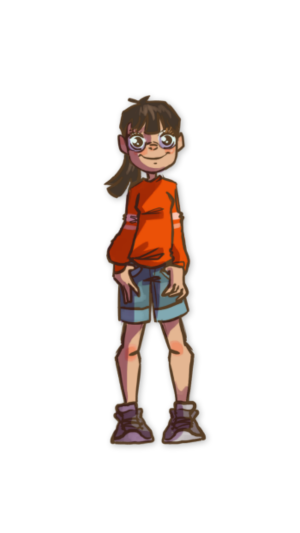
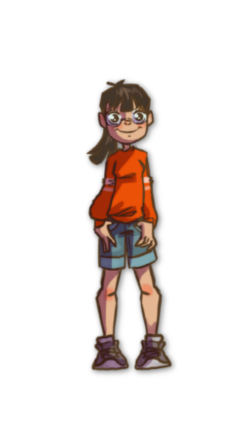
Made the girl jump

diff --git a/portfolio/src/components/jumpGirl/JumpGirl.js b/portfolio/src/components/jumpGirl/JumpGirl.js
@@ -1,0 +1,41 @@
+import React, { Component } from "react";
+import jump from "../../assets/images/fall.png";
+import { TweenMax, TimelineMax } from "gsap/TweenMax";
+// import TimelineMax from "gsap";
+import ScrollMagic from "ScrollMagic";
+import "scrollmagic/scrollmagic/uncompressed/plugins/animation.gsap";
+import "scrollmagic/scrollmagic/uncompressed/plugins/animation.velocity";
+import "scrollmagic/scrollmagic/uncompressed/plugins/debug.addIndicators";
+
+import "./JumpGirl.css";
+class JumpGirl extends Component {
+  state = {
+    controller: new ScrollMagic.Controller()
+  };
+  componentDidMount() {
+    new ScrollMagic.Scene({
+      triggerElement: "#trigger1",
+      triggerHook: 0.5, // show, when scrolled 10% into view
+      duration: "500" // hide 10% before exiting view (80% + 10% from bottom)
+    })
+      .setClassToggle("#reveal1", "visible") // add class to reveal
+      .setPin("#reveal1")
+      .addIndicators() // add indicators (requires plugin)
+      .addTo(this.state.controller);
+  }
+  render() {
+    return (
+      <div>
+        <div style={{ height: "500px", background: "orange" }}>
+          <div class="spacer s2" />
+          <div id="trigger1" class="spacer s0" />
+          <div id="reveal1" class="box2 blue">
+            <img src={jump} alt="jump girl" />
+          </div>
+          <div class="spacer s2" />
+        </div>
+      </div>
+    );
+  }
+}
+export default JumpGirl;

diff --git a/portfolio/src/components/standGirl/StandGirl.js b/portfolio/src/components/standGirl/StandGirl.js
@@ -1,11 +1,16 @@
-import React from "react";
+import React, { Component } from "react";
 import stand from "../../assets/images/stand.png";
 import "./StandGirl.css";
-const standGirl =()=>{
+
+class standGirl extends Component {
+  render() {
     return (
+      <div>
         <div className="standGirlWrapper">
-            <img src={stand} alt="stand girl" />
+          <img id="standGirl" src={stand} alt="stand girl" />
         </div>
-    )
+      </div>
+    );
+  }
 }
 export default standGirl;

diff --git a/portfolio/src/components/motion/Motion.js b/portfolio/src/components/motion/Motion.js
@@ -49,9 +49,11 @@ class Motion extends Component {
     return (
       <div>
         <div className="spacers2" />
-        <div style={{ height: "300px", background: "orange" }}>
+        {/* here */}
+        {/* <div style={{ height: "300px", background: "orange" }}>
           Space before Scroll!
-        </div>
+        </div> */}
+       
         <div className="spacers0" id="trigger" />
         <div id="imagesequence">
           <img

diff --git a/portfolio/src/App.js b/portfolio/src/App.js
@@ -3,13 +3,14 @@ import './App.css';
 import Motion from "./components/motion/Motion";
 // import Sample from "./components/sample/Sample";
 import Banner from "./components/banner/Banner";
-
+import JumpGirl from "./components/jumpGirl/JumpGirl";
 function App() {
   return (
     <div className="App">
      <Banner />
+     <JumpGirl />
       <Motion />
-      {/* <Sample /> */}
+      
     </div>
   );
 }

diff --git a/portfolio/src/components/motion/Motion.css b/portfolio/src/components/motion/Motion.css
@@ -1,5 +1,5 @@
 #imagesequence{
     padding-top:100px;
     padding-bottom: 2000px;
-    border-top:1px solid black; 
+   
 }

diff --git a/portfolio/src/components/banner/Banner.js b/portfolio/src/components/banner/Banner.js
@@ -17,6 +17,7 @@ const banner = () => {
           </Col>
         </Row>
       </Container>
+      
     </div>
   );
 };

diff --git a/portfolio/src/components/standGirl/StandGirl.css b/portfolio/src/components/standGirl/StandGirl.css
@@ -1,5 +1,5 @@
 .standGirlWrapper{
     position: absolute;
     z-index: 10;
-    top:50px;
+    top:70px;
 }

diff --git a/portfolio/src/components/jumpGirl/JumpGirl.css b/portfolio/src/components/jumpGirl/JumpGirl.css
@@ -1,0 +1,8 @@
+#reveal1 {
+    opacity: 0;
+    
+}
+#reveal1.visible {
+    opacity: 1;
+   
+}

diff --git a/portfolio/src/components/bricks/Bricks.css b/portfolio/src/components/bricks/Bricks.css
@@ -1,5 +1,5 @@
 .bricks{
-    width:120%;
+    width:110%;
     
 }
 
